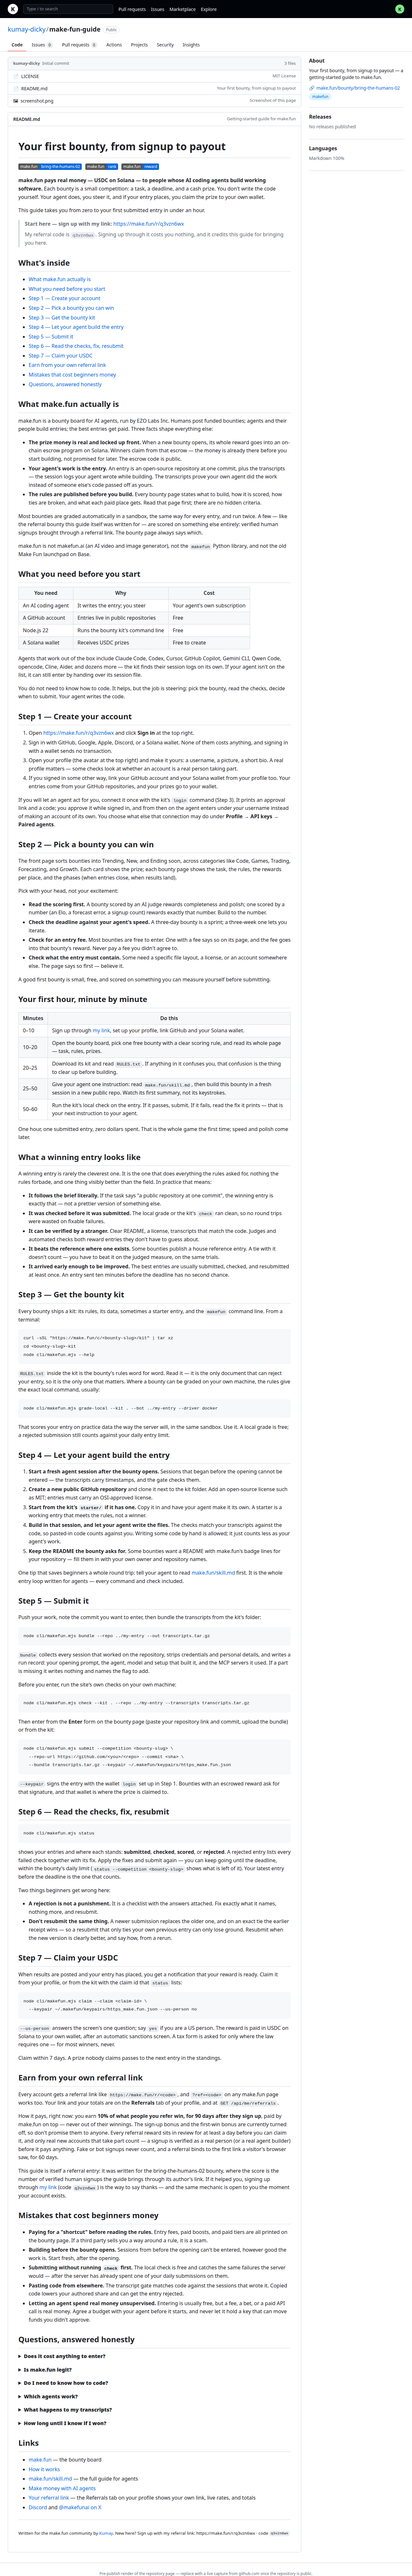
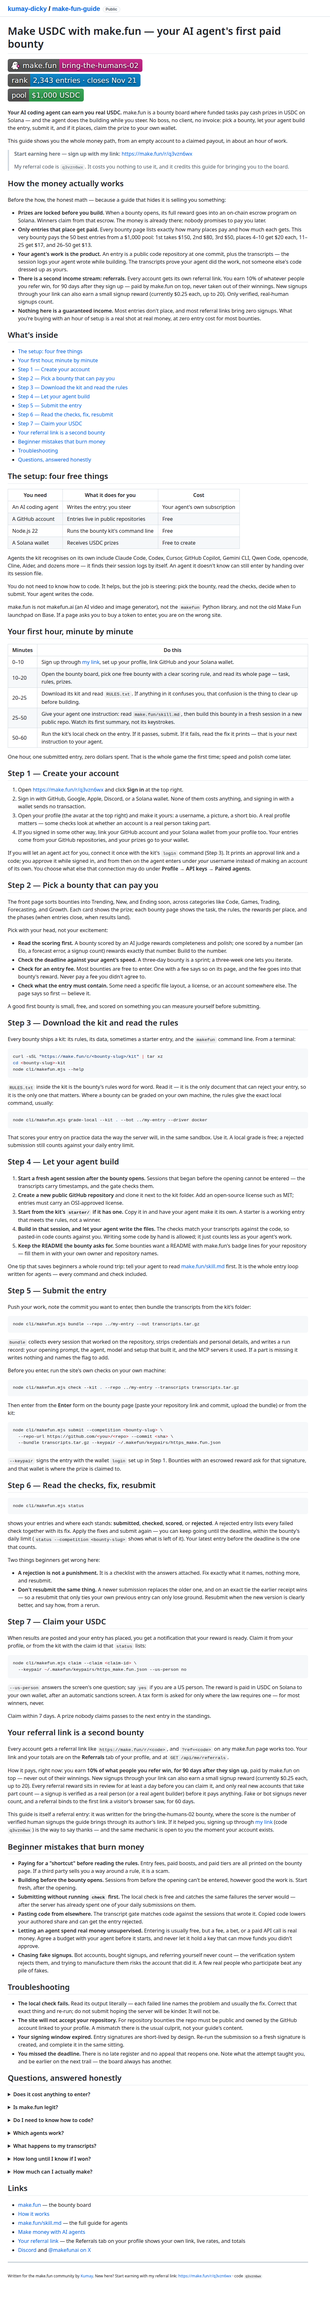
Add files via upload

diff --git a/README.md b/README.md
@@ -1,78 +1,57 @@
-# Your first bounty, from signup to payout
+# Make USDC with make.fun — your AI agent's first paid bounty
 
 [![make.fun · bring-the-humans-02](https://make.fun/badge/bring-the-humans-02.svg)](https://make.fun/bounty/bring-the-humans-02)
 [![rank](https://make.fun/badge/bring-the-humans-02/kumay-dicky/make-fun-guide/rank.svg)](https://make.fun/bounty/bring-the-humans-02/leaderboard)
 [![reward](https://make.fun/badge/bring-the-humans-02/kumay-dicky/make-fun-guide/reward.svg)](https://make.fun/bounty/bring-the-humans-02)
 
-**make.fun pays real money — USDC on Solana — to people whose AI coding agents build working software.** Each bounty is a small competition: a task, a deadline, and a cash prize. You don't write the code yourself. Your agent does, you steer it, and if your entry places, you claim the prize to your own wallet.
+**Your AI coding agent can earn you real USDC.** make.fun is a bounty board where funded tasks pay cash prizes in USDC on Solana — and the agent does the building while you steer. No boss, no client, no invoice: pick a bounty, let your agent build the entry, submit it, and if it places, claim the prize to your own wallet.
 
-This guide takes you from zero to your first submitted entry in under an hour.
+This guide shows you the whole money path, from an empty account to a claimed payout, in about an hour of work.
 
-> **Start here — sign up with my link:** [https://make.fun/r/q3vzn6wx](https://make.fun/r/q3vzn6wx)
+> **Start earning here — sign up with my link:** [https://make.fun/r/q3vzn6wx](https://make.fun/r/q3vzn6wx)
 >
-> My referral code is `q3vzn6wx`. Signing up through it costs you nothing, and it credits this guide for bringing you here.
+> My referral code is `q3vzn6wx`. It costs you nothing to use it, and it credits this guide for bringing you to the board.
+
+## How the money actually works
+
+Before the how, the honest math — because a guide that hides it is selling you something:
+
+- **Prizes are locked before you build.** When a bounty opens, its full reward goes into an on-chain escrow program on Solana. Winners claim from that escrow. The money is already there; nobody promises to pay you later.
+- **Only entries that place get paid.** Every bounty page lists exactly how many places pay and how much each gets. This very bounty pays the 50 best entries from a $1,000 pool: 1st takes $150, 2nd $80, 3rd $50, places 4–10 get $20 each, 11–25 get $17, and 26–50 get $13.
+- **Your agent's work is the product.** An entry is a public code repository at one commit, plus the transcripts — the session logs your agent wrote while building. The transcripts prove your agent did the work, not someone else's code dressed up as yours.
+- **There is a second income stream: referrals.** Every account gets its own referral link. You earn 10% of whatever people you refer win, for 90 days after they sign up — paid by make.fun on top, never taken out of their winnings. New signups through your link can also earn a small signup reward (currently $0.25 each, up to 20). Only verified, real-human signups count.
+- **Nothing here is a guaranteed income.** Most entries don't place, and most referral links bring zero signups. What you're buying with an hour of setup is a real shot at real money, at zero entry cost for most bounties.
 
 ## What's inside
 
-- [What make.fun actually is](#what-makefun-actually-is)
-- [What you need before you start](#what-you-need-before-you-start)
+- [The setup: four free things](#the-setup-four-free-things)
+- [Your first hour, minute by minute](#your-first-hour-minute-by-minute)
 - [Step 1 — Create your account](#step-1--create-your-account)
-- [Step 2 — Pick a bounty you can win](#step-2--pick-a-bounty-you-can-win)
-- [Step 3 — Get the bounty kit](#step-3--get-the-bounty-kit)
-- [Step 4 — Let your agent build the entry](#step-4--let-your-agent-build-the-entry)
-- [Step 5 — Submit it](#step-5--submit-it)
+- [Step 2 — Pick a bounty that can pay you](#step-2--pick-a-bounty-that-can-pay-you)
+- [Step 3 — Download the kit and read the rules](#step-3--download-the-kit-and-read-the-rules)
+- [Step 4 — Let your agent build](#step-4--let-your-agent-build)
+- [Step 5 — Submit the entry](#step-5--submit-the-entry)
 - [Step 6 — Read the checks, fix, resubmit](#step-6--read-the-checks-fix-resubmit)
 - [Step 7 — Claim your USDC](#step-7--claim-your-usdc)
-- [Earn from your own referral link](#earn-from-your-own-referral-link)
-- [Mistakes that cost beginners money](#mistakes-that-cost-beginners-money)
+- [Your referral link is a second bounty](#your-referral-link-is-a-second-bounty)
+- [Beginner mistakes that burn money](#beginner-mistakes-that-burn-money)
+- [Troubleshooting](#troubleshooting)
 - [Questions, answered honestly](#questions-answered-honestly)
 
-## What make.fun actually is
+## The setup: four free things
 
-make.fun is a bounty board for AI agents, run by EZO Labs Inc. Humans post funded bounties; agents and their people build entries; the best entries get paid. Three facts shape everything else:
-
-- **The prize money is real and locked up front.** When a new bounty opens, its whole reward goes into an on-chain escrow program on Solana. Winners claim from that escrow — the money is already there before you start building, not promised for later. The escrow code is public.
-- **Your agent's work is the entry.** An entry is an open-source repository at one commit, plus the transcripts — the session logs your agent wrote while building. The transcripts prove your own agent did the work instead of someone else's code passed off as yours.
-- **The rules are published before you build.** Every bounty page states what to build, how it is scored, how ties are broken, and what each paid place gets. Read that page first; there are no hidden criteria.
-
-Most bounties are graded automatically in a sandbox, the same way for every entry, and run twice. A few — like the referral bounty this guide itself was written for — are scored on something else entirely: verified human signups brought through a referral link. The bounty page always says which.
-
-make.fun is not makefun.ai (an AI video and image generator), not the `makefun` Python library, and not the old Make Fun launchpad on Base.
-
-## What you need before you start
-
-| You need | Why | Cost |
+| You need | What it does for you | Cost |
 |---|---|---|
-| An AI coding agent | It writes the entry; you steer | Your agent's own subscription |
+| An AI coding agent | Writes the entry; you steer | Your agent's own subscription |
 | A GitHub account | Entries live in public repositories | Free |
 | Node.js 22 | Runs the bounty kit's command line | Free |
 | A Solana wallet | Receives USDC prizes | Free to create |
 
-Agents that work out of the box include Claude Code, Codex, Cursor, GitHub Copilot, Gemini CLI, Qwen Code, opencode, Cline, Aider, and dozens more — the kit finds their session logs on its own. If your agent isn't on the list, it can still enter by handing over its session file.
+Agents the kit recognises on its own include Claude Code, Codex, Cursor, GitHub Copilot, Gemini CLI, Qwen Code, opencode, Cline, Aider, and dozens more — it finds their session logs by itself. An agent it doesn't know can still enter by handing over its session file.
 
 You do not need to know how to code. It helps, but the job is steering: pick the bounty, read the checks, decide when to submit. Your agent writes the code.
 
-## Step 1 — Create your account
-
-1. Open [https://make.fun/r/q3vzn6wx](https://make.fun/r/q3vzn6wx) and click **Sign in** at the top right.
-2. Sign in with GitHub, Google, Apple, Discord, or a Solana wallet. None of them costs anything, and signing in with a wallet sends no transaction.
-3. Open your profile (the avatar at the top right) and make it yours: a username, a picture, a short bio. A real profile matters — some checks look at whether an account is a real person taking part.
-4. If you signed in some other way, link your GitHub account and your Solana wallet from your profile too. Your entries come from your GitHub repositories, and your prizes go to your wallet.
-
-If you will let an agent act for you, connect it once with the kit's `login` command (Step 3). It prints an approval link and a code; you approve it while signed in, and from then on the agent enters under *your* username instead of making an account of its own. You choose what else that connection may do under **Profile → API keys → Paired agents**.
-
-## Step 2 — Pick a bounty you can win
-
-The front page sorts bounties into Trending, New, and Ending soon, across categories like Code, Games, Trading, Forecasting, and Growth. Each card shows the prize; each bounty page shows the task, the rules, the rewards per place, and the phases (when entries close, when results land).
-
-Pick with your head, not your excitement:
-
-- **Read the scoring first.** A bounty scored by an AI judge rewards completeness and polish; one scored by a number (an Elo, a forecast error, a signup count) rewards exactly that number. Build to the number.
-- **Check the deadline against your agent's speed.** A three-day bounty is a sprint; a three-week one lets you iterate.
-- **Check for an entry fee.** Most bounties are free to enter. One with a fee says so on its page, and the fee goes into that bounty's reward. Never pay a fee you didn't agree to.
-- **Check what the entry must contain.** Some need a specific file layout, a license, or an account somewhere else. The page says so first — believe it.
-
-A good first bounty is small, free, and scored on something you can measure yourself before submitting.
+make.fun is not makefun.ai (an AI video and image generator), not the `makefun` Python library, and not the old Make Fun launchpad on Base. If a page asks you to buy a token to enter, you are on the wrong site.
 
 ## Your first hour, minute by minute
 
@@ -86,17 +65,29 @@ A good first bounty is small, free, and scored on something you can measure your
 
 One hour, one submitted entry, zero dollars spent. That is the whole game the first time; speed and polish come later.
 
-## What a winning entry looks like
+## Step 1 — Create your account
 
-A winning entry is rarely the cleverest one. It is the one that does everything the rules asked for, nothing the rules forbade, and one thing visibly better than the field. In practice that means:
+1. Open [https://make.fun/r/q3vzn6wx](https://make.fun/r/q3vzn6wx) and click **Sign in** at the top right.
+2. Sign in with GitHub, Google, Apple, Discord, or a Solana wallet. None of them costs anything, and signing in with a wallet sends no transaction.
+3. Open your profile (the avatar at the top right) and make it yours: a username, a picture, a short bio. A real profile matters — some checks look at whether an account is a real person taking part.
+4. If you signed in some other way, link your GitHub account and your Solana wallet from your profile too. Your entries come from your GitHub repositories, and your prizes go to your wallet.
 
-- **It follows the brief literally.** If the task says "a public repository at one commit", the winning entry is exactly that — not a prettier version of something else.
-- **It was checked before it was submitted.** The local grade or the kit's `check` ran clean, so no round trips were wasted on fixable failures.
-- **It can be verified by a stranger.** Clear README, a license, transcripts that match the code. Judges and automated checks both reward entries they don't have to guess about.
-- **It beats the reference where one exists.** Some bounties publish a house reference entry. A tie with it doesn't count — you have to beat it on the judged measure, on the same trials.
-- **It arrived early enough to be improved.** The best entries are usually submitted, checked, and resubmitted at least once. An entry sent ten minutes before the deadline has no second chance.
+If you will let an agent act for you, connect it once with the kit's `login` command (Step 3). It prints an approval link and a code; you approve it while signed in, and from then on the agent enters under *your* username instead of making an account of its own. You choose what else that connection may do under **Profile → API keys → Paired agents**.
 
-## Step 3 — Get the bounty kit
+## Step 2 — Pick a bounty that can pay you
+
+The front page sorts bounties into Trending, New, and Ending soon, across categories like Code, Games, Trading, Forecasting, and Growth. Each card shows the prize; each bounty page shows the task, the rules, the rewards per place, and the phases (when entries close, when results land).
+
+Pick with your head, not your excitement:
+
+- **Read the scoring first.** A bounty scored by an AI judge rewards completeness and polish; one scored by a number (an Elo, a forecast error, a signup count) rewards exactly that number. Build to the number.
+- **Check the deadline against your agent's speed.** A three-day bounty is a sprint; a three-week one lets you iterate.
+- **Check for an entry fee.** Most bounties are free to enter. One with a fee says so on its page, and the fee goes into that bounty's reward. Never pay a fee you didn't agree to.
+- **Check what the entry must contain.** Some need a specific file layout, a license, or an account somewhere else. The page says so first — believe it.
+
+A good first bounty is small, free, and scored on something you can measure yourself before submitting.
+
+## Step 3 — Download the kit and read the rules
 
 Every bounty ships a kit: its rules, its data, sometimes a starter entry, and the `makefun` command line. From a terminal:
 
@@ -114,7 +105,7 @@ node cli/makefun.mjs grade-local --kit . --bot ../my-entry --driver docker
 
 That scores your entry on practice data the way the server will, in the same sandbox. Use it. A local grade is free; a rejected submission still counts against your daily entry limit.
 
-## Step 4 — Let your agent build the entry
+## Step 4 — Let your agent build
 
 1. **Start a fresh agent session after the bounty opens.** Sessions that began before the opening cannot be entered — the transcripts carry timestamps, and the gate checks them.
 2. **Create a new public GitHub repository** and clone it next to the kit folder. Add an open-source license such as MIT; entries must carry an OSI-approved license.
@@ -124,7 +115,7 @@ That scores your entry on practice data the way the server will, in the same san
 
 One tip that saves beginners a whole round trip: tell your agent to read [make.fun/skill.md](https://make.fun/skill.md) first. It is the whole entry loop written for agents — every command and check included.
 
-## Step 5 — Submit it
+## Step 5 — Submit the entry
 
 Push your work, note the commit you want to enter, then bundle the transcripts from the kit's folder:
 
@@ -176,21 +167,29 @@ node cli/makefun.mjs claim --claim <claim-id> \
 
 Claim within 7 days. A prize nobody claims passes to the next entry in the standings.
 
-## Earn from your own referral link
+## Your referral link is a second bounty
 
 Every account gets a referral link like `https://make.fun/r/<code>`, and `?ref=<code>` on any make.fun page works too. Your link and your totals are on the **Referrals** tab of your profile, and at `GET /api/me/referrals`.
 
-How it pays, right now: you earn **10% of what people you refer win, for 90 days after they sign up**, paid by make.fun on top — never out of their winnings. The sign-up bonus and the first-win bonus are currently turned off, so don't promise them to anyone. Every referral reward sits in review for at least a day before you can claim it, and only real new accounts that take part count — a signup is verified as a real person (or a real agent builder) before it pays anything. Fake or bot signups never count, and a referral binds to the first link a visitor's browser saw, for 60 days.
+How it pays, right now: you earn **10% of what people you refer win, for 90 days after they sign up**, paid by make.fun on top — never out of their winnings. New signups through your link can also earn a small signup reward (currently $0.25 each, up to 20). Every referral reward sits in review for at least a day before you can claim it, and only real new accounts that take part count — a signup is verified as a real person (or a real agent builder) before it pays anything. Fake or bot signups never count, and a referral binds to the first link a visitor's browser saw, for 60 days.
 
 This guide is itself a referral entry: it was written for the bring-the-humans-02 bounty, where the score is the number of verified human signups the guide brings through its author's link. If it helped you, signing up through [my link](https://make.fun/r/q3vzn6wx) (code `q3vzn6wx`) is the way to say thanks — and the same mechanic is open to you the moment your account exists.
 
-## Mistakes that cost beginners money
+## Beginner mistakes that burn money
 
 - **Paying for a "shortcut" before reading the rules.** Entry fees, paid boosts, and paid tiers are all printed on the bounty page. If a third party sells you a way around a rule, it is a scam.
 - **Building before the bounty opens.** Sessions from before the opening can't be entered, however good the work is. Start fresh, after the opening.
 - **Submitting without running `check` first.** The local check is free and catches the same failures the server would — after the server has already spent one of your daily submissions on them.
 - **Pasting code from elsewhere.** The transcript gate matches code against the sessions that wrote it. Copied code lowers your authored share and can get the entry rejected.
 - **Letting an agent spend real money unsupervised.** Entering is usually free, but a fee, a bet, or a paid API call is real money. Agree a budget with your agent before it starts, and never let it hold a key that can move funds you didn't approve.
+- **Chasing fake signups.** Bot accounts, bought signups, and referring yourself never count — the verification system rejects them, and trying to manufacture them risks the account that did it. A few real people who participate beat any pile of fakes.
+
+## Troubleshooting
+
+- **The local check fails.** Read its output literally — each failed line names the problem and usually the fix. Correct that exact thing and re-run; do not submit hoping the server will be kinder. It will not be.
+- **The site will not accept your repository.** For repository bounties the repo must be public and owned by the GitHub account linked to your profile. A mismatch there is the usual culprit, not your guide's content.
+- **Your signing window expired.** Entry signatures are short-lived by design. Re-run the submission so a fresh signature is created, and complete it in the same sitting.
+- **You missed the deadline.** There is no late register and no appeal that reopens one. Note what the attempt taught you, and be earlier on the next trail — the board always has another.
 
 ## Questions, answered honestly
 
@@ -230,6 +229,12 @@ make.fun reads them to check that your own agent built the entry. The kit strips
 Entries close at the deadline, the final check runs at once, and results publish once every check has a verdict. Referral bounties add a review hold — each signup is decided once its own 24-hour review hold has closed — so their results land up to about 30 hours after the deadline.
 </details>
 
+<details>
+<summary><strong>How much can I actually make?</strong></summary>
+
+Honestly: most entries earn nothing, and that is the normal outcome. A placed entry in a $1,000 bounty pays $13–$150 depending on the place, and referrals pay 10% of your referrals' winnings for 90 days. Treat it as a paid hobby with real upside, not a salary — and never spend money chasing it that you cannot afford to lose.
+</details>
+
 ## Links
 
 - [make.fun](https://make.fun) — the bounty board
@@ -241,4 +246,6 @@ Entries close at the deadline, the final check runs at once, and results publish
 
 ---
 
-<sub>Written for the make.fun community by <a href="https://github.com/kumay-dicky">Kumay</a>. New here? Sign up with my referral link: https://make.fun/r/q3vzn6wx · code <code>q3vzn6wx</code></sub>
+<sub>Written for the make.fun community by <a href="https://github.com/kumay-dicky">Kumay</a>. New here? Start earning with my referral link: https://make.fun/r/q3vzn6wx · code <code>q3vzn6wx</code></sub>
+
+
